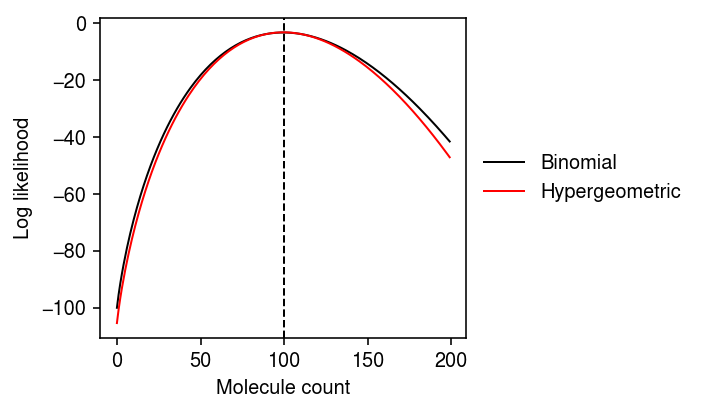
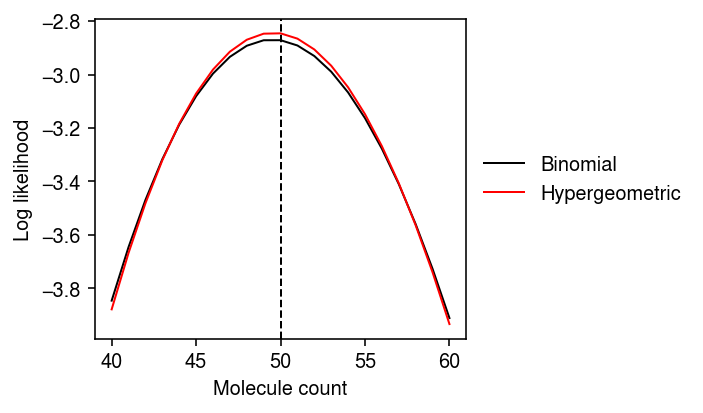
Revise example

diff --git a/docs/capture.html b/docs/capture.html
@@ -1,7 +1,7 @@
 <!DOCTYPE html>
 <html lang="en">
 <head>
-<!-- 2019-07-22 Mon 11:43 -->
+<!-- 2019-07-22 Mon 11:49 -->
 <meta charset="utf-8">
 <meta name="viewport" content="width=device-width, initial-scale=1">
 <title>Effect of capture rate on sampling variation</title>
@@ -284,8 +284,8 @@ follows:
 
 <p>
 where \(\alpha_j\) denotes the relative abundance of gene \(j\) in the
-cell. This implicitly assumes sampling with replacement, i.e. that the pool
-of molecules is <b>much</b> larger than the sampled molecules. But what happens if
+cell. This implicitly assumes sampling <i>with replacement</i>, i.e. that the pool
+of molecules is much larger than the sampled molecules. But what happens if
 we sample a non-trivial fraction of all available molecules, say 10-40%
 (e.g., <a href="https://www.ncbi.nlm.nih.gov/pmc/articles/PMC4193940/">Shalek 2014</a>)? In the extreme case, what would happen if we actually
 managed to sequence all of the available molecules?
@@ -332,7 +332,7 @@ hypergeometric distribution.
 
 <p>
 Suppose we have a total of \(N\) molecules, of which \(n_i\) come from gene
-\(i\). Further suppose we capture \(p\) fraction of the molecules. Then, we
+\(i\). Further suppose we sequence \(p\) fraction of the molecules. Then, we
 have two descriptions of the data:
 </p>
 
@@ -361,16 +361,18 @@ Look at the log likelihood for some settings of these parameters.
 </p>
 
 <div class="org-src-container">
-<pre class="src src-ipython"><span class="org-variable-name">N</span> = 1e6
-<span class="org-variable-name">n1</span> = 1e-3 * N
-<span class="org-variable-name">p</span> = .1
+<pre class="src src-ipython"><span class="org-variable-name">N</span> = 1e5
+<span class="org-variable-name">n1</span> = .01 * N
+<span class="org-variable-name">p</span> = .05
 </pre>
 </div>
 
 <div class="org-src-container">
 <pre class="src src-ipython">plt.clf()
 plt.gcf().set_size_inches(5, 3)
-<span class="org-variable-name">grid</span> = np.arange(200)
+<span class="org-variable-name">mean</span> = n1 * p
+<span class="org-variable-name">sd</span> = n1 * p * (N - n1) / N
+<span class="org-variable-name">grid</span> = np.arange(np.floor(mean - 10), np.ceil(mean + 10) + 1)
 plt.plot(grid, st.binom(n=N * p, p=n1 / N).logpmf(grid), lw=1, c=<span class="org-string">'k'</span>, label=<span class="org-string">'Binomial'</span>)
 plt.plot(grid, st.hypergeom(M=N, n=n1, N=N * p).logpmf(grid), lw=1, c=<span class="org-string">'r'</span>, label=<span class="org-string">'Hypergeometric'</span>)
 plt.axvline(x=n1 * p, ls=<span class="org-string">'--'</span>, lw=1, c=<span class="org-string">'k'</span>)
@@ -396,7 +398,7 @@ We built an <a href="http://shiny.stephenslab.uchicago.edu:5009/capture">interac
 </div>
 <div id="postamble" class="status">
 <p class="author">Author: Abhishek Sarkar</p>
-<p class="date">Created: 2019-07-22 Mon 11:43</p>
+<p class="date">Created: 2019-07-22 Mon 11:49</p>
 <p class="validation"><a href="http://validator.w3.org/check?uri=referer">Validate</a></p>
 </div>
 </body>
